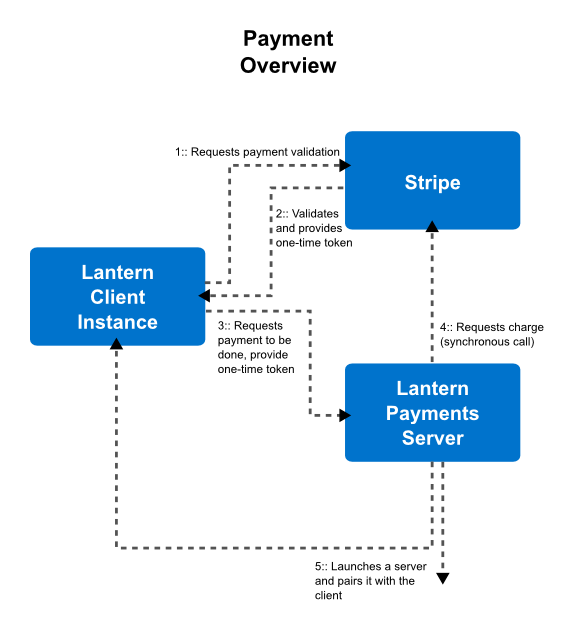
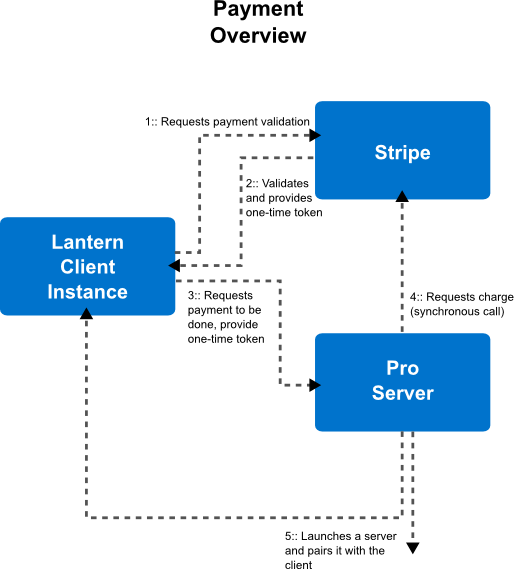
Fixes to the cloud part

diff --git a/lep/DRAFT/012_Pro_version_personal_server.md b/lep/DRAFT/012_Pro_version_personal_server.md
@@ -78,16 +78,16 @@ The payment process involves the Lanter Client, the Stripe Servers and the Lante
 <img src="images/lep-012-payment.png" alt="Payment Processing"/>
 </p>
 
-The example code shown in the previous section will not execute the charge from the Lantern client UI, but rather send a request to validate the data in Stripe **(step 1)**.  Stripe's JavaScript plugin (called *Checkout*) hijacks the form in order to do this before contacting any of our servers.  Stripe will reply to the AJAX request with a one-time token, which will be inserted into the form **(step 2)**.  Finally, the form is sent by the Lantern UI in a POST request (done via an async callback triggered by the successful AJAX reply from Stripe) to a web service in the Lantern cloud (*the Payments server*), along the token and the validated data **(step 3)**.
+The example code shown in the previous section will not execute the charge from the Lantern client UI, but rather send a request to validate the data in Stripe **(step 1)**.  Stripe's JavaScript plugin (called *Checkout*) hijacks the form in order to do this before contacting any of our servers.  Stripe will reply to the AJAX request with a one-time token, which will be inserted into the form **(step 2)**.  Finally, the form is sent by the Lantern UI in a POST request (done via an async callback triggered by the successful AJAX reply from Stripe) to a web service in the Lantern cloud (*the Pro server*), along the token and the validated data **(step 3)**.
 
 This request needs to carry also some data to identify the Lantern instance (lantern id and IP).  For this, we can use Stripe request [metadata](https://stripe.com/docs/api#metadata).  Ideally, this will also provide geolocation and/or IP information.  The geolocation data will be useful for deciding in which DC to launch the proxy.
 
 
-#### Payments Server receives confirmation
+#### Pro Server receives confirmation
 
-Once all validation has be done at Stripe's side, the UI Javascript side will receive a one-time token that will then be sent to the Lantern's Payments server so it can proceed with charging.
+Once all validation has be done at Stripe's side, the UI Javascript side will receive a one-time token that will then be sent to the Lantern's Pro server so it can proceed with charging.
 
-**Important Note: Ideally, the user shouldn't be required to contact Lantern's Payments server.  Unfortunately there is currently no way to perform charges from the client, nor add a webhook at the validation stage.**
+**Important Note: Ideally, the user shouldn't be required to contact Lantern's Pro server.  Unfortunately there is currently no way to perform charges from the client, nor add a webhook at the validation stage.**
 
 At this point, the charge has been done and we can proceed with launching a server.  Stripe's charging API is *synchronous*, so if it succeeds we can act immediately, whithout requiring any callback to check status. As soon as the `charge` call returns, we are good to go **(step 4)**.  This will be done by appending a new Lantern Pro Server request in Redis DB.
 
@@ -98,15 +98,17 @@ Should card details be saved? We don't have users at the moment, and since we ar
 
 ### 3. Providing a private Pro Server to the client
 
+#### Overview of Lantern Pro cloud backend
+
+For our purposes, we will need ultimately to handle Pro servers, launch them and pair them with users.  We might want several Pro users in one server, or even a user in two or more servers.  This is the general architecture that will allow flexibility for these options, following the current approach used by the regular Lantern service.
+
+<p align="center">
+<img src="images/lep-012-cloud.png" alt="Payment Processing"/>
+</p>
+
 #### Redis Pro Servers queue and management
 
-If the payment was successful, the charge has been registered and we can safely launch the server and provide the server and the client with the necessary information for secure proxying.  Thus, the Lantern Payments Server needs to append a new server request in a queue in Redis **(step 5 - a)**.  This will allow *Cloudmaster* to pick up this job and execute the requests in the best datacenter for the Lantern client.  The Redis DB is effectivelly serving as a message queue between the Payments Server and the Cloudmaster, just as what happens with the Config Server and Cloudmaster for the free service.
-
-Cloudmaster will need to run new tasks.  These are inevitable:
-
-1. Watch for new Pro Servers requests, and launch as necessary.  This is currently done for free LCSs, so it could extend the functionality or be based on it.
-
-1. Check private proxy remaining time of service, and shut down those that surpassed a certain time threshold.  Similar to what retiring servers is doing at the moment, but triggered by a time event.
+If the payment was successful, the charge has been registered and we can safely launch the server and provide the server and the client with the necessary information for secure proxying.  Thus, the Lantern Pro Server needs to append a new server request in a queue in Redis **(step 1)**.  This will allow *Cloudmaster* to pick up this job and execute the requests in the best datacenter for the Lantern client **(step 2)**.  The Redis DB is effectivelly serving as a message queue between the Pro Server and the Cloudmaster, just as what happens with the Config Server and Cloudmaster for the free service.  Cloudmaster will need watch for new Pro Servers requests, and launch as necessary.  This is currently done for free LCSs, so it could extend the functionality or be based on it.
 
 #### Automatically configuring the client and server pairing
 
@@ -118,21 +120,16 @@ There is some information that needs to be placed at the newly launched server, 
 
 * The server static IP (in the client)
 
-First, the server should be automatically configured with this information by the Cloudmaster.  It also needs to notify the Payments Server, confirming successfull launch of the server and providing it with the information for the user.  Once this confirmation is received by the Payments Server, it will push a message to the Lantern client (via HTTP long polling or a websockets connection) **(step 5 - b)**.  At this point the Payments Server's mission is finished.
+First, the server should be automatically configured with this information by the Cloudmaster.  It then needs to notify the Pro Server **(step 3)**, confirming successfull launch of the server and providing it with the information for the user.  Once this confirmation is received by the Pro Server, it will register the user service, and send an email to the user with the config file **(step 4)**.
+
+The file-in-email solution is proposed in order to avoid these potential issues:
+
+* The  differentiated method for purchasing Pro for one Lantern instance and several.  In other words, if you want to share the token, you inevitably need to introduce a different step for configuration.  The file can be directly shared to other Lantern instances or users and the sharing problem would be solved.  This email will contain also a direct link to the local UI to easily open the file attached and make the configuration automatic.
+
+* The time taken to spawn a new server until it becomes functional.  If it's too long, a notification system should be put in place, instead of a simple push/long-poll that seems to assume that the user will be in front of the UI waiting for the setup to be finished.  A proper waiting UI could be a solution for this, though.
+
 
 When the Lantern client gets all the information it requires to pair with the server, it can proceed to override config.  It is suggested that the regular free Lantern config is left as a fallback, in case there is an issue with the Pro Server, giving time to the Lantern team to investigate.
-
-**Alternative method for config distribution to the client**
-
-There are two disadvantages to the proposed method:
-
-* It creates a differentiated method for purchasing Pro for one Lantern instance and several.  In other words, if you want to share the token, you inevitably need to introduce a different step for configuration.
-
-* It doesn't take into account the time taken to spawn a new server until it becomes functional.  If it's too long, a notification system should be put in place, instead of a simple push/long-poll that seems to assume that the user will be in front of the UI waiting for the setup to be finished.  A proper waiting UI could be a solution for this, though.
-
-An email-based Pro Server config file is proposed for this.  The file can be directly shared to other Lantern instances or users and the sharing problem would be solved.  The cost of this solution is obvious: it introduces a more manual setup.  It is suggested however that the advantages outweight the disadvantages.
-
-The UI for this would be a file selector in the *Get Pro* menu, that the user can employ to open the file sent by Lantern.
 
 
 ## Sharing across devices and users
